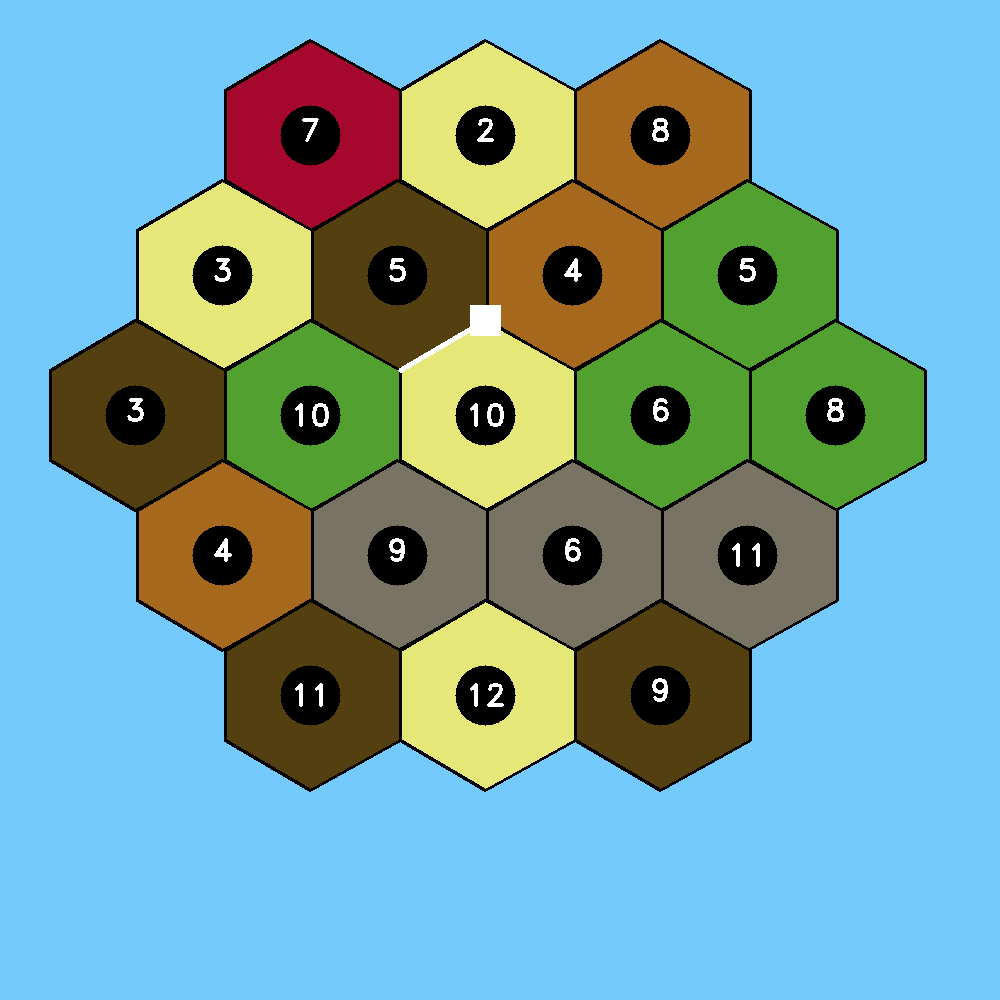
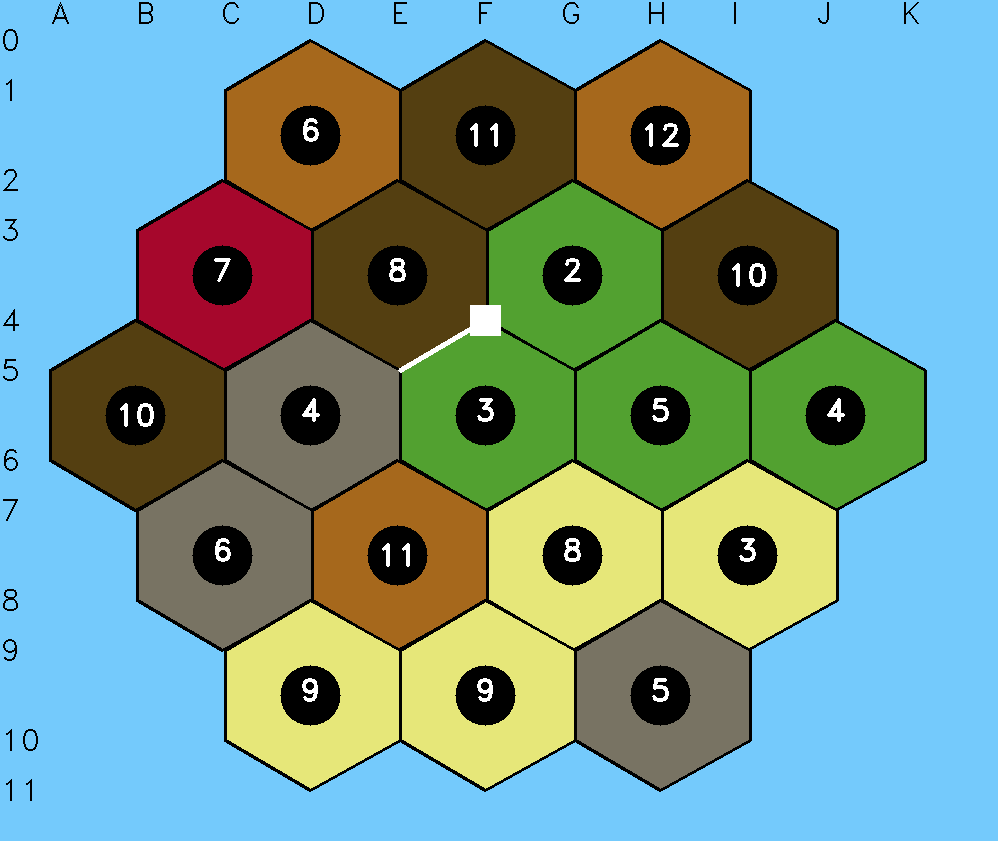
Grid drawn on board

diff --git a/draw.py b/draw.py
@@ -1,6 +1,6 @@
 import cv2
 import numpy as np
-import itertools
+import itertools, string
 
 photo  = "background.png"
 
@@ -50,11 +50,6 @@ def drawBoard(board, image):
                     vertex[0] -= 787.5
                 else:
                     vertex[0] -= 612.5
-            
-
-        
-        print(startingTile)
-        print(numToDraw)
 
         pts = np.array([topLeft, botLeft,
                         bot, botRight,
@@ -85,7 +80,25 @@ def drawBoard(board, image):
 
         for vertex in allVertex:
                 vertex[0] += 175
+        drawGrid(image)
     cv2.imwrite('test.png', image)
+
+def drawGrid(image):
+    capitalLetters = list(string.ascii_uppercase)
+    letterIndex = 0
+    xCoord = 50
+    yCoord = 50
+
+    for num in range(11):
+        image = cv2.putText(image, capitalLetters[letterIndex], (xCoord, 23), cv2.FONT_HERSHEY_DUPLEX, 1, (0,0,0), 1)
+        letterIndex += 1
+        xCoord += 85
+    
+    for num in range(12):
+        image = cv2.putText(image, str(num), (0, yCoord), cv2.FONT_HERSHEY_DUPLEX, 1, (0,0,0), 1)
+        if(num % 2 == 0):
+            yCoord += 50
+        else: yCoord += 90
 
 def getSpot(spot):
     spotAdj = [spot[1],spot[0]]
